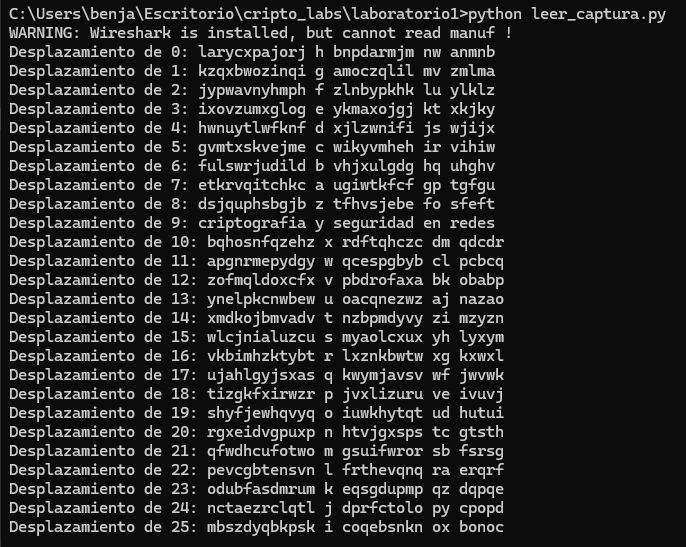
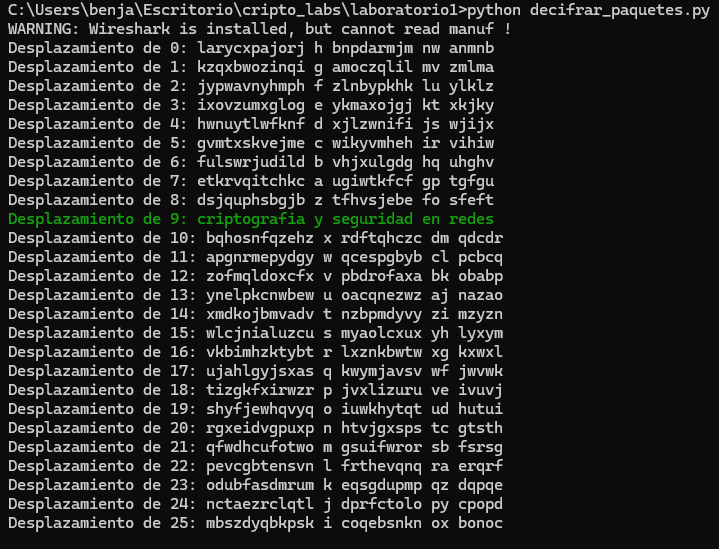
feat: imagenes

diff --git a/laboratorio1/decifrado.py b/laboratorio1/decifrado.py
@@ -1,6 +1,3 @@
-# DECIFRADO CESAR
-
-# se realiza el corrimiento del caracter
 def transform(character, movement):
     if 'a' <= character <= 'z':
         ascii_code = ord(character)
@@ -9,13 +6,22 @@ def transform(character, movement):
     else:
         return character
 
-# se realiza cada desplazamiento utilizando la funcion anterior
+def print_colored(text, color_code):
+    # Código de escape ANSI para el color
+    print(f"\033[{color_code}m{text}\033[0m")
+
 def decifrate_all(word):
+    target_message = "criptografia y seguridad en redes"
     for movement in range(26):
         result = ""
         for letter in word:
             result += transform(letter, -movement)
-        print(f"Desplazamiento de {movement}: {result}")
+        
+        # Verifica si el resultado es el mensaje objetivo
+        if result == target_message:
+            print_colored(f"Desplazamiento de {movement}: {result}", '32')  # Verde
+        else:
+            print(f"Desplazamiento de {movement}: {result}")
 
 # Se pasa el texto cifrado y se obtienen todas las combinaciones de desplazamientos.
 # cifrado = "larycxpajorj h bnpdarmjm nw anmnb"
